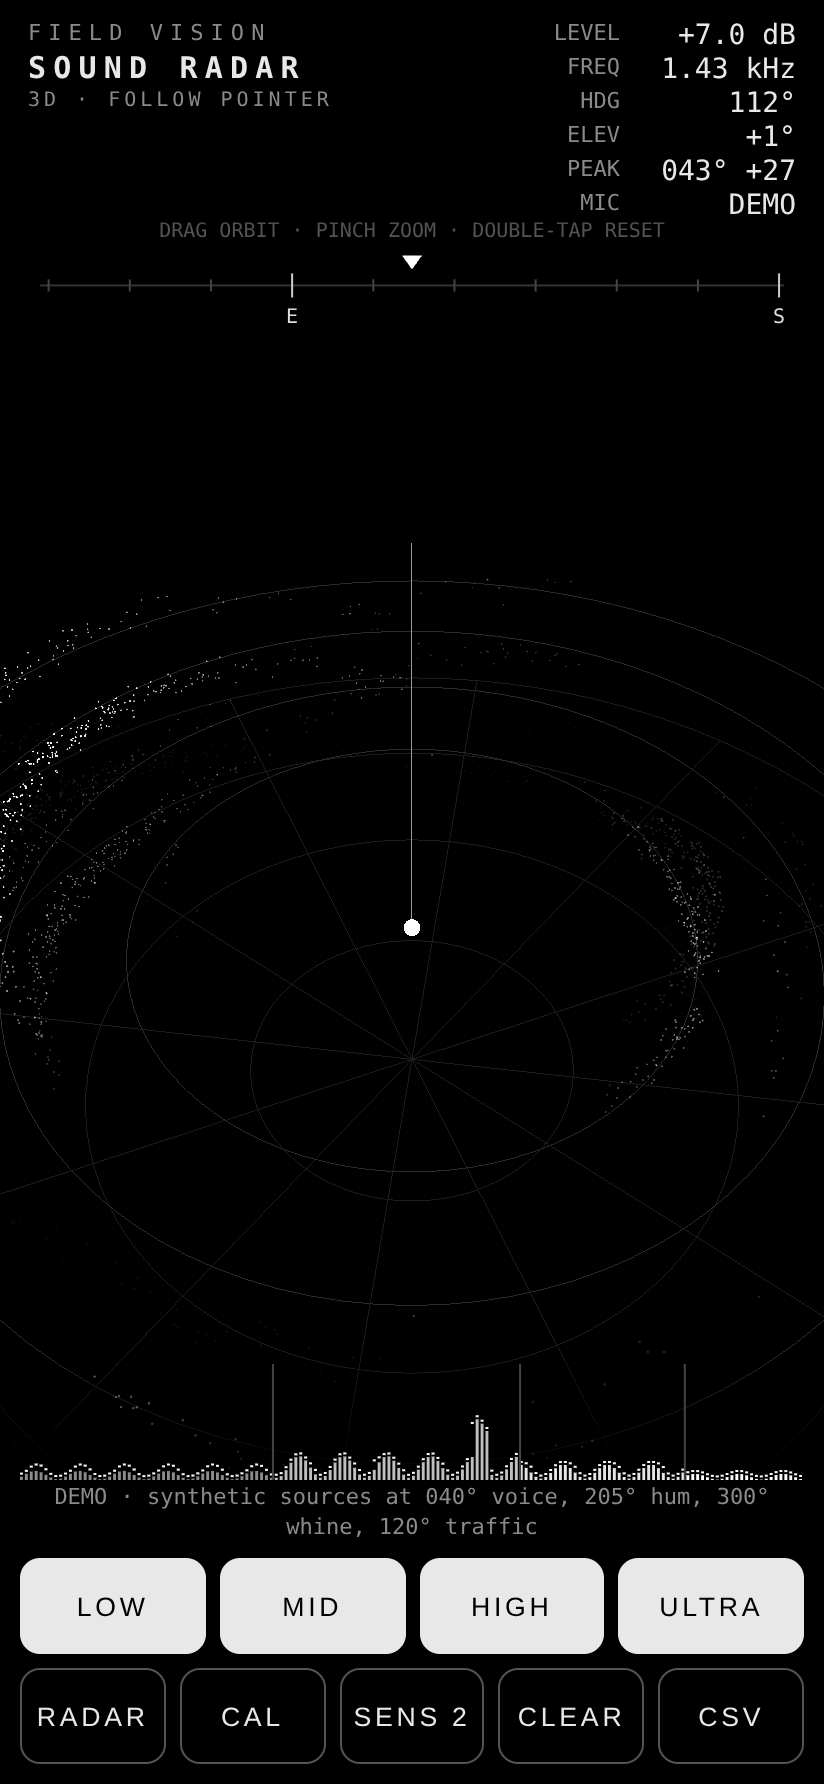
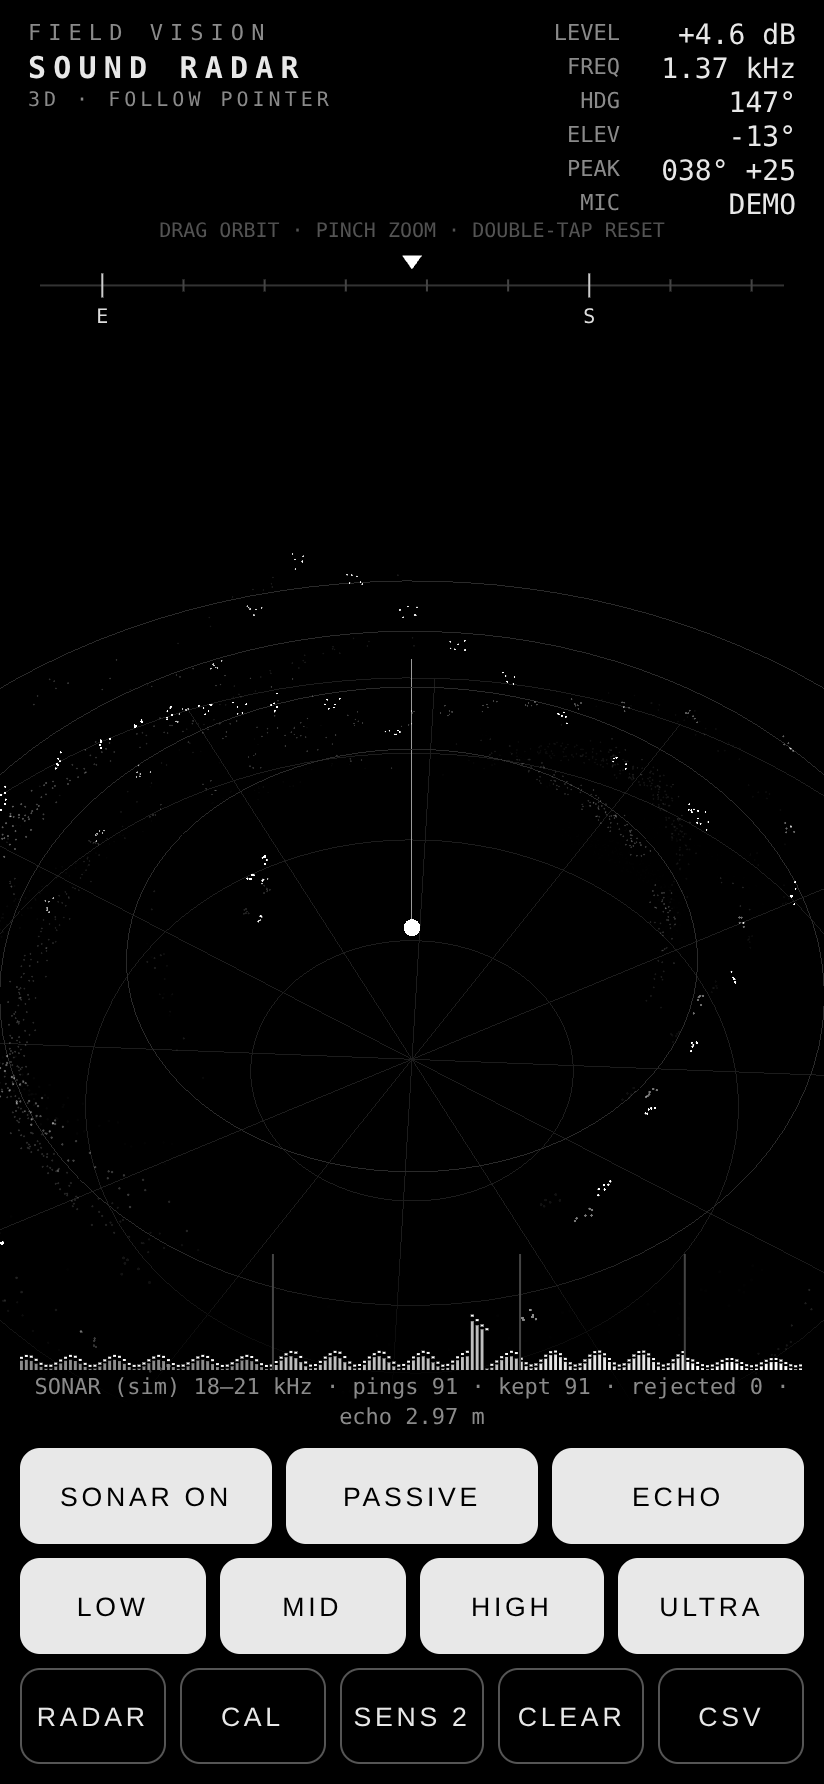
Field Vision v2.1: coded near-ultrasonic sonar layer with interference rejection, passive/echo layers

diff --git a/index.html b/index.html
@@ -52,6 +52,9 @@ button.dim{color:#666;border-color:#2a2a2a}
 <div class="bot">
   <canvas id="spec"></canvas>
   <div id="msg"></div>
+  <div class="row">
+    <button id="sonar">SONAR OFF</button><button id="layP" class="on">PASSIVE</button><button id="layS" class="on">ECHO</button>
+  </div>
   <div class="row" id="bands">
     <button class="on" data-b="0">LOW</button><button class="on" data-b="1">MID</button><button class="on" data-b="2">HIGH</button><button class="on" data-b="3">ULTRA</button>
   </div>
@@ -85,6 +88,70 @@ const bandOn = [true,true,true,true];
 const SENS = [{t:6,k:9},{t:4,k:6},{t:2.5,k:4}]; // threshold dB above floor, dB per particle
 let sensIdx = 1;
 
+// ==SONAR-DSP-BEGIN==
+// Active sonar, near-ultrasonic coded chirps. Pure functions (unit-tested offline).
+const SON = {f0:17500, f1:20500, dur:0.008, maxR:4.0, gMinMs:2.5, gMaxMs:30, N:6, codeRatio:1.5, oobMax:4, interval:0.34, gain:0.22, pre:0.1, post:0.3};
+const SON_CODES = ['UP','DOWN','V'];
+function makeChirp(code, sr){
+  const n=Math.round(SON.dur*sr), out=new Float32Array(n); let ph=0; const B=SON.f1-SON.f0;
+  for(let i=0;i<n;i++){ const u=i/(n-1);
+    const f = code===0 ? SON.f0+B*u : code===1 ? SON.f1-B*u : (u<0.5 ? SON.f0+B*2*u : SON.f1-B*(2*u-1));
+    ph+=2*Math.PI*f/sr; out[i]=Math.sin(ph)*0.5*(1-Math.cos(2*Math.PI*u)); }
+  return out;
+}
+function biquad(type,f,Q,sr){ // RBJ cookbook
+  const w=2*Math.PI*f/sr, c=Math.cos(w), al=Math.sin(w)/(2*Q); let b0,b1,b2;
+  if(type==='lp'){ b0=(1-c)/2; b1=1-c; b2=(1-c)/2; } else { b0=(1+c)/2; b1=-(1+c); b2=(1+c)/2; }
+  const a0=1+al; return [b0/a0,b1/a0,b2/a0,(-2*c)/a0,(1-al)/a0];
+}
+const BW8_Q=[0.5098,0.6013,0.9000,2.5629]; // 8th-order Butterworth sections
+function makeBand(sr){ const hi=Math.min(SON.f1+500, sr/2*0.96), s=[];
+  for(const q of BW8_Q) s.push(biquad('hp',SON.f0-500,q,sr)); for(const q of BW8_Q) s.push(biquad('lp',hi,q,sr)); return s; }
+function makeOob(sr){ const s=[]; for(const q of BW8_Q) s.push(biquad('lp',15000,q,sr)); return s; }
+function filt(x,secs){ let y=Float32Array.from(x);
+  for(const [b0,b1,b2,a1,a2] of secs){ let x1=0,x2=0,y1=0,y2=0; for(let i=0;i<y.length;i++){ const v=y[i], o=b0*v+b1*x1+b2*x2-a1*y1-a2*y2; x2=x1;x1=v;y2=y1;y1=o;y[i]=o; } }
+  return y; }
+function corrAt(x,t,L){ let s=0; for(let k=0;k<t.length;k++) s+=x[L+k]*t[k]; return s; }
+function corrEnv(x,t,a,b){ // |matched filter| envelope for lags a..b-1
+  a=Math.max(0,a); b=Math.min(x.length-t.length,b); const n=Math.max(0,b-a), c=new Float32Array(n), e=new Float32Array(n);
+  for(let i=0;i<n;i++) c[i]=Math.abs(corrAt(x,t,a+i));
+  for(let i=0;i<n;i++){ let m=0; for(let j=Math.max(0,i-3);j<=Math.min(n-1,i+3);j++) if(c[j]>m) m=c[j]; e[i]=m; }
+  return {a,e};
+}
+function energy(x,a,b){ let s=0; a=Math.max(0,a); b=Math.min(x.length,b); for(let i=a;i<b;i++) s+=x[i]*x[i]; return s/Math.max(1,b-a); }
+// raw: mic samples from (emit - pre) to (emit + post). Returns accepted echo peaks or a rejection reason.
+function detectPing(raw, code, tpls, secs, sr){
+  if(!secs.tf){ secs.tf=tpls.map(t=>{ const z=new Float32Array(t.length+64); z.set(t); return filt(z,secs); }); } // templates through the same filter
+  tpls=secs.tf; const x=filt(raw,secs), tpl=tpls[code], emit=Math.round(SON.pre*sr);
+  const ds=corrEnv(x,tpl,emit-Math.round(0.01*sr),emit+Math.round(0.25*sr));
+  let D=0,d=-1; for(let i=0;i<ds.e.length;i++) if(ds.e[i]>D){D=ds.e[i];d=ds.a+i;}
+  const nA=d-Math.round(0.06*sr), nB=d-Math.round(0.01*sr);
+  if(d<0||nA<0) return {ok:false,reason:'no direct path'};
+  const ns=corrEnv(x,tpl,nA,nB); let fl=0; for(const v of ns.e) fl+=v*v; fl=Math.sqrt(fl/Math.max(1,ns.e.length))+1e-9;
+  if(D<10*fl) return {ok:false,reason:'no direct path',D,floor:fl};
+  { let bd=d,bv=0; for(let k=-4;k<=4;k++){ const v=Math.abs(corrAt(x,tpl,d+k)); if(v>bv){bv=v;bd=k+d;} } d=bd; // subtract direct path
+    let te=0; for(const v of tpl) te+=v*v; const a=corrAt(x,tpl,d)/te; for(let k=0;k<tpl.length;k++) x[d+k]-=a*tpl[k]; }
+  const gA=d+Math.round(SON.gMinMs/1000*sr), gB=d+Math.round(SON.gMaxMs/1000*sr);
+  // broadband / impulsive rejection: out-of-band energy jump inside the echo window
+  const oob=filt(raw,secs.oob||(secs.oob=makeOob(sr)));
+  const oobRatio=energy(oob,gA,gB+tpl.length)/(energy(oob,nA,nB)+1e-12);
+  if(oobRatio>SON.oobMax) return {ok:false,reason:'impulse/broadband',oobRatio};
+  const g=corrEnv(x,tpl,gA,gB), thr=Math.max(SON.N*fl, 0.012*D), nms=Math.round(0.0006*sr), peaks=[];
+  for(let i=1;i<g.e.length-1;i++){ const v=g.e[i]; if(v<thr||v<g.e[i-1]||v<g.e[i+1]) continue;
+    const L=g.a+i; if(peaks.length&&L-peaks[peaks.length-1].L<nms){ if(v>peaks[peaks.length-1].v) peaks[peaks.length-1]={L,v}; continue; } peaks.push({L,v}); }
+  const out=[];
+  for(const p of peaks){ // code check: echo must match THIS ping's code, not another sweep
+    let own=0, other=0;
+    for(let k=-3;k<=3;k++) own=Math.max(own,Math.abs(corrAt(x,tpl,p.L+k)));
+    const nb=Math.round(0.0033*sr); for(let k=-nb;k<=nb;k+=1) for(let c=0;c<tpls.length;c++) if(c!==code&&p.L+k>=0) other=Math.max(other,Math.abs(corrAt(x,tpls[c],p.L+k)));
+    if(own<SON.codeRatio*other) continue;
+    out.push({r:(p.L-d)/sr*343/2, snr:p.v/fl});
+  }
+  out.sort((a,b)=>b.snr-a.snr);
+  return {ok:true, peaks:out.slice(0,4), D, floor:fl, oobRatio};
+}
+// ==SONAR-DSP-END==
+
 // ---------- state ----------
 const S = {
   running:false, t0:performance.now(),
@@ -104,10 +171,10 @@ renderer.setPixelRatio(DPR);
 
 const geo = new THREE.BufferGeometry();
 const aData = new Float32Array(CAP*4);   // heading(rad), elev(rad), r2d, r3d
-const aMeta = new Float32Array(CAP*2);   // birth(s), intensity*shade
-for(let i=0;i<CAP;i++) aMeta[i*2] = -1e6;
+const aMeta = new Float32Array(CAP*3);   // birth(s), intensity, layer (0 passive haze, 1 sonar echo)
+for(let i=0;i<CAP;i++) aMeta[i*3] = -1e6;
 const attrData = new THREE.BufferAttribute(aData,4).setUsage(THREE.DynamicDrawUsage);
-const attrMeta = new THREE.BufferAttribute(aMeta,2).setUsage(THREE.DynamicDrawUsage);
+const attrMeta = new THREE.BufferAttribute(aMeta,3).setUsage(THREE.DynamicDrawUsage);
 geo.setAttribute('position', new THREE.BufferAttribute(new Float32Array(CAP*3),3)); // unused, required
 geo.setAttribute('aData', attrData);
 geo.setAttribute('aMeta', attrMeta);
@@ -115,24 +182,24 @@ geo.boundingSphere = new THREE.Sphere(new THREE.Vector3(), 1e5);
 let head = 0, dirtyFrom = -1, dirtyCount = 0;
 
 const common = {
-  uTime:{value:0}, uFade:{value:FADE}, uSize:{value:1.6*DPR}, uHead:{value:0}, uSweep:{value:0}, uScale:{value:1},
+  uTime:{value:0}, uFade:{value:FADE}, uSize:{value:1.6*DPR}, uHead:{value:0}, uSweep:{value:0}, uScale:{value:1}, uShowP:{value:1}, uShowS:{value:1},
 };
 const FRAG = `
 precision highp float;
-varying float vA;
+varying float vA; varying float vL;
 void main(){
   vec2 p = gl_PointCoord*2.0-1.0; float r = dot(p,p);
   if(r>1.0) discard;
-  float core = smoothstep(0.55,0.25,r);       // crisp core
-  float glow = (1.0-r)*0.18;                  // very faint halo
-  float a = (core+glow)*vA;
-  gl_FragColor = vec4(vec3(a),1.0);
+  float a;
+  if(vL>0.5){ a = (smoothstep(0.62,0.3,r) + (1.0-r)*0.08)*vA*1.35; }        // sonar echo: crisp, bright
+  else { a = (smoothstep(0.55,0.2,r)*0.6 + (1.0-r)*0.2)*vA*0.75; }          // passive sound: dimmer haze
+  gl_FragColor = vec4(vec3(min(a,1.0)),1.0);
 }`;
 const VCOMMON = `
-attribute vec4 aData; attribute vec2 aMeta;
-uniform float uTime,uFade,uSize,uHead,uSweep,uScale;
-varying float vA;
-float lifeA(){ float age=uTime-aMeta.x; if(age<0.0||age>uFade) return 0.0; float f=1.0-age/uFade; return f*f*aMeta.y; }
+attribute vec4 aData; attribute vec3 aMeta;
+uniform float uTime,uFade,uSize,uHead,uSweep,uScale,uShowP,uShowS;
+varying float vA; varying float vL;
+float lifeA(){ vL=aMeta.z; if((aMeta.z>0.5?uShowS:uShowP)<0.5) return 0.0; float age=uTime-aMeta.x; if(age<0.0||age>uFade) return 0.0; float f=1.0-age/uFade; return f*f*aMeta.y; }
 `;
 const matRadar = new THREE.ShaderMaterial({
   uniforms:common, transparent:true, depthWrite:false, depthTest:false, blending:THREE.AdditiveBlending,
@@ -145,7 +212,7 @@ const matRadar = new THREE.ShaderMaterial({
     float boost=1.0+1.6*exp(-sw*3.0);
     vA=min(a*boost,1.0);
     gl_Position=projectionMatrix*modelViewMatrix*vec4(p,0.0,1.0);
-    gl_PointSize=uSize*(0.85+0.4*a);
+    gl_PointSize=uSize*(0.85+0.4*a)*(aMeta.z>0.5?1.2:1.0);
   }`, fragmentShader:FRAG });
 const mat3D = new THREE.ShaderMaterial({
   uniforms:common, transparent:true, depthWrite:false, depthTest:false, blending:THREE.AdditiveBlending,
@@ -186,7 +253,7 @@ function spawn(hdgRad, elRad, band, inten){
   const r2 = b.r2[0] + (b.r2[1]-b.r2[0])*(0.15+0.7*t) + (Math.random()-0.5)*0.045;
   const r3 = b.r3[0] + (b.r3[1]-b.r3[0])*(0.15+0.7*t) + (Math.random()-0.5)*0.07;
   aData[i*4]=hdgRad+jh; aData[i*4+1]=elRad+je; aData[i*4+2]=r2; aData[i*4+3]=r3;
-  aMeta[i*2]=S.now; aMeta[i*2+1]=(0.25+0.75*t)*b.shade;
+  aMeta[i*3]=S.now; aMeta[i*3+1]=(0.25+0.75*t)*b.shade; aMeta[i*3+2]=0;
   if(dirtyFrom<0){dirtyFrom=i;dirtyCount=0;} dirtyCount++;
   head=(head+1)%CAP;
 }
@@ -194,11 +261,18 @@ function flushParticles(){
   if(dirtyFrom<0) return;
   attrData.clearUpdateRanges(); attrMeta.clearUpdateRanges();
   const n=Math.min(dirtyCount,CAP), first=Math.min(n,CAP-dirtyFrom);
-  attrData.addUpdateRange(dirtyFrom*4, first*4); attrMeta.addUpdateRange(dirtyFrom*2, first*2);
-  if(n>first){ attrData.addUpdateRange(0,(n-first)*4); attrMeta.addUpdateRange(0,(n-first)*2); }
+  attrData.addUpdateRange(dirtyFrom*4, first*4); attrMeta.addUpdateRange(dirtyFrom*3, first*3);
+  if(n>first){ attrData.addUpdateRange(0,(n-first)*4); attrMeta.addUpdateRange(0,(n-first)*3); }
   attrData.needsUpdate=true; attrMeta.needsUpdate=true; dirtyFrom=-1; dirtyCount=0;
 }
-function clearParticles(){ for(let i=0;i<CAP;i++) aMeta[i*2]=-1e6; attrMeta.clearUpdateRanges(); attrMeta.needsUpdate=true; env.fill(0); S.peakHold.fill(0); }
+function spawnSonar(hdg,el,r,inten){
+  const i=head, rr=r+(Math.random()-0.5)*0.03;
+  aData[i*4]=hdg+(Math.random()-0.5)*0.05; aData[i*4+1]=el+(Math.random()-0.5)*0.05;
+  aData[i*4+2]=rr/SON.maxR*0.98; aData[i*4+3]=rr/SON.maxR*2.85;
+  aMeta[i*3]=S.now; aMeta[i*3+1]=0.55+0.45*inten; aMeta[i*3+2]=1;
+  if(dirtyFrom<0){dirtyFrom=i;dirtyCount=0;} dirtyCount++; head=(head+1)%CAP;
+}
+function clearParticles(){ for(let i=0;i<CAP;i++) aMeta[i*3]=-1e6; attrMeta.clearUpdateRanges(); attrMeta.needsUpdate=true; env.fill(0); S.peakHold.fill(0); }
 
 // ---------- orientation: phone as pointer ----------
 // W3C: world X=east, Y=north, Z=up. Device: x=right, y=top edge, z=out of screen. R = Rz(a)·Rx(b)·Ry(g).
@@ -250,7 +324,7 @@ async function initAudio(){
   if(ac.state==='suspended') await ac.resume();
   const src = ac.createMediaStreamSource(stream);
   an = ac.createAnalyser(); an.fftSize=8192; an.smoothingTimeConstant=0.55; an.minDecibels=-140; an.maxDecibels=0;
-  src.connect(an);                                        // never connected to destination: silent
+  src.connect(an); S.src=src;                             // mic is never routed to the speaker
   const set = stream.getAudioTracks()[0].getSettings?.()||{};
   const ch = set.channelCount || src.channelCount;
   if(ch===2){
@@ -265,6 +339,7 @@ async function initAudio(){
 }
 function setupBins(sr){
   const n = 4096; binHz = sr/8192; freq = new Float32Array(n); binBase=new Float32Array(n).fill(NaN);
+  S.ultraHi = null;
   bandBins = BANDS.map(b=>[Math.max(1,Math.round(b.lo/binHz)), Math.min(n-1,Math.round(Math.min(b.hi,sr/2-200)/binHz))]);
 }
 function startCal(){ cal.active=true; cal.until=S.now+2; cal.acc=new Float64Array(freq.length); cal.n=0; cal.bandAcc=[0,0,0,0]; msg('CALIBRATING · stay quiet for 2 s'); }
@@ -293,8 +368,8 @@ function analyse(){
     S.bandAbove[b]=Math.max(0,S.bandDb[b]-floorDb[b]);
   }
   // dominant frequency (above baseline), parabolic interpolation
-  let best=-1e9, bi=0; const i0=Math.round(30/binHz);
-  for(let i=i0;i<freq.length-1;i++){ const v=freq[i]-(isNaN(binBase[i])?-110:binBase[i]); if(v>best){best=v;bi=i;} }
+  let best=-1e9, bi=0; const i0=Math.round(30/binHz), iMax=son.on?Math.round(16500/binHz):freq.length-1;
+  for(let i=i0;i<iMax;i++){ const v=freq[i]-(isNaN(binBase[i])?-110:binBase[i]); if(v>best){best=v;bi=i;} }
   if(best>6){ const a=freq[bi-1],b=freq[bi],c=freq[bi+1]; const p=0.5*(a-c)/(a-2*b+c||1); S.domHz=(bi+(isFinite(p)?p:0))*binHz; } else S.domHz=0;
   if(S.stereo){
     anL.getFloatTimeDomainData(tdL); anR.getFloatTimeDomainData(tdR);
@@ -354,6 +429,72 @@ function emit(dt){
   if(val>env[ei]) env[ei]=val;
 }
 
+
+// ---------- active sonar runtime (opt-in, near-ultrasonic) ----------
+const son={on:false,ready:false,ring:null,R:0,latest:-1,pend:[],hist:[],nextT:0,lastCode:-1,tpls:null,bufs:null,secs:null,out:null,msgT:0,demoNext:0,
+  st:{sent:0,ok:0,rej:0,echo:0,last:null,why:''}};
+const angDiff=(a,b)=>((a-b+Math.PI*3)%(Math.PI*2))-Math.PI;
+async function sonarInit(){
+  const sr=ac.sampleRate;
+  son.tpls=[0,1,2].map(c=>makeChirp(c,sr)); son.secs=makeBand(sr);
+  son.bufs=son.tpls.map(t=>{ const b=ac.createBuffer(1,t.length,sr); b.copyToChannel(t,0); return b; });
+  son.out=ac.createGain(); son.out.gain.value=SON.gain; son.out.connect(ac.destination);
+  const code="class C extends AudioWorkletProcessor{constructor(){super();this.b=new Float32Array(2048);this.n=0;this.f=0}process(i){const c=i[0]&&i[0][0];if(c){if(this.n===0)this.f=currentFrame;this.b.set(c,this.n);this.n+=c.length;if(this.n>=2048){this.port.postMessage({f:this.f,d:this.b.slice(0,this.n)});this.n=0}}return true}}registerProcessor('fv-cap',C);";
+  await ac.audioWorklet.addModule(URL.createObjectURL(new Blob([code],{type:'application/javascript'})));
+  const node=new AudioWorkletNode(ac,'fv-cap',{numberOfInputs:1,numberOfOutputs:1,channelCount:1,channelCountMode:'explicit'});
+  const mute=ac.createGain(); mute.gain.value=0; S.src.connect(node); node.connect(mute); mute.connect(ac.destination);
+  son.R=Math.round(sr*2); son.ring=new Float32Array(son.R);
+  node.port.onmessage=e=>{ const {f,d}=e.data; for(let i=0;i<d.length;i++) son.ring[(f+i)%son.R]=d[i]; son.latest=f+d.length; };
+  son.ready=true;
+}
+function sonarTick(){
+  if(!son.on||!son.ready) return; const sr=ac.sampleRate;
+  if(ac.currentTime>son.nextT-0.06){
+    if(son.nextT<ac.currentTime+0.02) son.nextT=ac.currentTime+0.05;
+    let code; do code=Math.floor(Math.random()*3); while(code===son.lastCode); son.lastCode=code;   // coded pings
+    const b=ac.createBufferSource(); b.buffer=son.bufs[code]; b.connect(son.out); b.start(son.nextT);
+    son.pend.push({e:Math.round(son.nextT*sr),code,hdg:S.heading,el:S.elev}); son.st.sent++;
+    son.nextT+=SON.interval+Math.random()*0.04;                                               // jittered timing
+  }
+  const n=Math.round((SON.pre+SON.post)*sr);
+  while(son.pend.length && son.latest>=son.pend[0].e+Math.round(SON.post*sr)){
+    const p=son.pend.shift(), a=p.e-Math.round(SON.pre*sr);
+    if(a<0||son.latest-a>son.R) continue;
+    const raw=new Float32Array(n); for(let i=0;i<n;i++) raw[i]=son.ring[(a+i)%son.R];
+    handlePing(p, detectPing(raw,p.code,son.tpls,son.secs,sr));
+  }
+}
+function handlePing(p,r){
+  if(!r.ok){ son.st.rej++; son.st.why=r.reason; son.hist.push({hdg:p.hdg,peaks:[]}); if(son.hist.length>3) son.hist.shift(); return; }
+  son.st.ok++; son.st.why='';
+  const prev=son.hist.slice(-2);
+  for(const pk of r.peaks){   // plot only if the same range shows up in >=2 of the last 3 pings at ~the same heading
+    let votes=0; for(const h of prev){ if(Math.abs(angDiff(h.hdg,p.hdg))>12*D2R) continue; if(h.peaks.some(q=>Math.abs(q.r-pk.r)<0.1)) votes++; }
+    if(votes>=1 && pk.r<=SON.maxR){ const inten=Math.min(1,Math.log10(pk.snr)/3); for(let k=0;k<6;k++) spawnSonar(p.hdg,p.el,pk.r,inten); son.st.echo++; son.st.last=pk.r; }
+  }
+  son.hist.push({hdg:p.hdg,peaks:r.peaks}); if(son.hist.length>3) son.hist.shift();
+}
+function demoSonar(){   // simulated room 4.0 x 4.9 m with a pillar at 075° / 1.2 m
+  if(S.now<son.demoNext) return; son.demoNext=S.now+SON.interval;
+  const h=S.heading, dx=Math.sin(h), dy=Math.cos(h); const hits=[];
+  const tw=[]; if(dx>0) tw.push(2.3/dx); if(dx<0) tw.push(-1.7/dx); if(dy>0) tw.push(2.8/dy); if(dy<0) tw.push(-2.1/dy); hits.push(Math.min(...tw));
+  const ox=1.2*Math.sin(75*D2R), oy=1.2*Math.cos(75*D2R), b=dx*ox+dy*oy, c=ox*ox+oy*oy-0.25*0.25, disc=b*b-c; if(disc>0) hits.push(b-Math.sqrt(disc));
+  son.st.sent++; son.st.ok++;
+  for(const r of hits){ if(r>0.3&&r<=SON.maxR){ for(let k=0;k<6;k++) spawnSonar(h,S.elev,r,0.8); son.st.echo++; son.st.last=r; } }
+}
+$('sonar').onclick=async()=>{
+  if(!DEMO){
+    if(!ac){ msg('Tap START first'); return; }
+    if(!son.ready){ try{ await sonarInit(); }catch(e){ msg('Sonar unavailable on this browser: '+(e.message||e)); return; } }
+  }
+  son.on=!son.on; son.nextT=0; son.pend.length=0; son.hist.length=0;
+  if(bandBins.length){ if(S.ultraHi==null) S.ultraHi=bandBins[3][1]; bandBins[3][1]=son.on?Math.round(16500/binHz):S.ultraHi; } // keep chirps out of the passive layer
+  $('sonar').textContent=son.on?'SONAR ON':'SONAR OFF'; $('sonar').className=son.on?'on':'';
+  if(!son.on) msg('Sonar off. Passive listening only, no sound output.');
+};
+$('layP').onclick=()=>{ common.uShowP.value=common.uShowP.value?0:1; $('layP').className=common.uShowP.value?'on':'dim'; };
+$('layS').onclick=()=>{ common.uShowS.value=common.uShowS.value?0:1; $('layS').className=common.uShowS.value?'on':'dim'; };
+
 // ---------- CSV log ----------
 const log=[]; let lastLog=0;
 function logRow(){
@@ -376,7 +517,7 @@ function resize(){
   W=innerWidth; H=innerHeight; renderer.setSize(W,H,false);
   hud.width=W*DPR; hud.height=H*DPR; hx.setTransform(DPR,0,0,DPR,0,0);
   spec.width=spec.clientWidth*DPR; spec.height=spec.clientHeight*DPR;
-  cx=W/2; cy=H*0.47; RP=Math.min(W*0.46, H*0.33);
+  cx=W/2; cy=H*0.43; RP=Math.min(W*0.40, H*0.29);
   // ortho camera matching the HUD radar: 1 unit = RP px, centred at (cx,cy)
   camR.left=-cx/RP; camR.right=(W-cx)/RP; camR.top=cy/RP; camR.bottom=-(H-cy)/RP; camR.updateProjectionMatrix();
   cam3.aspect=W/H; cam3.updateProjectionMatrix();
@@ -413,7 +554,7 @@ function drawRadarHud(){
   g.fillStyle='#fff'; g.beginPath(); g.moveTo(cx,cy-RP*1.03+1); g.lineTo(cx-7,cy-RP*1.03-11); g.lineTo(cx+7,cy-RP*1.03-11); g.closePath(); g.fill();
   // rotating sweep (screen space) with trailing gradient
   const sa=S.sweep-Hd; // world sweep angle -> screen
-  for(let i=0;i<24;i++){ const a=sa-i*0.025; g.strokeStyle=`rgba(255,255,255,${0.22*(1-i/24)})`;
+  for(let i=0;i<10;i++){ const a=sa-i*0.05; g.strokeStyle=`rgba(255,255,255,${0.24*(1-i/10)})`;
     g.beginPath(); g.moveTo(cx,cy); g.lineTo(cx+Math.sin(a)*RP,cy-Math.cos(a)*RP); g.stroke(); }
   // directional envelope (peak hold per 5°) outside the rim
   g.strokeStyle='rgba(255,255,255,0.75)'; g.lineWidth=2;
@@ -425,6 +566,9 @@ function drawRadarHud(){
   if(pi>=0&&pk>3){ const a=(pi*5+2.5)*D2R-Hd, r=RP*0.985; const px=cx+Math.sin(a)*r, py=cy-Math.cos(a)*r;
     g.strokeStyle='#fff'; g.beginPath(); g.arc(px,py,6,0,7); g.stroke(); g.beginPath(); g.arc(px,py,10,0,7); g.globalAlpha=0.35; g.stroke(); g.globalAlpha=1;
     S.peakTxt=`${String(Math.round(pi*5+2.5)).padStart(3,'0')}° +${pk.toFixed(0)}`; } else S.peakTxt='---';
+  if(son.on){ g.setLineDash([2,5]); g.strokeStyle='#3a3a3a'; g.fillStyle='#6a6a6a'; g.font='9px ui-monospace,monospace';
+    for(let m=1;m<=SON.maxR;m++){ const r=m/SON.maxR*0.98*RP; g.beginPath(); g.arc(cx,cy,r,0,7); g.stroke(); g.fillText(m+'m',cx+r*0.72+8,cy+r*0.72); }
+    g.setLineDash([]); }
   // Peter
   g.fillStyle='#fff'; g.beginPath(); g.arc(cx,cy,4.5,0,7); g.fill();
   g.strokeStyle='rgba(255,255,255,0.35)'; g.beginPath(); g.arc(cx,cy,9+4*Math.sin(S.now*4),0,7); g.stroke();
@@ -514,6 +658,8 @@ function frame(now){
   if(S.running){
     if(DEMO) demoMotion();
     analyse(); emit(dt); logRow();
+    if(DEMO){ if(son.on) demoSonar(); } else sonarTick();
+    if(son.on && now-son.msgT>500){ son.msgT=now; const st=son.st; msg(`SONAR ${DEMO?'(sim) ':''}18–21 kHz · pings ${st.sent} · kept ${st.ok} · rejected ${st.rej}${st.why?' ('+st.why+')':''} · echo ${st.last?st.last.toFixed(2)+' m':'--'}`); }
   }
   S.sweep=(S.sweep+dt*2.1)%(Math.PI*2);
   flushParticles();
@@ -532,12 +678,14 @@ function frame(now){
   else if(DEMO) $('rSt').textContent='DEMO';
   if(S.debug) S.debug.fps=fps;
 }
-window.__fv={S,get fps(){return fps}, get alive(){ let n=0; for(let i=0;i<CAP;i++) if(S.now-aMeta[i*2]<FADE) n++; return n; }};
+window.__fv={S,get fps(){return fps}, get alive(){ let n=0; for(let i=0;i<CAP;i++) if(S.now-aMeta[i*3]<FADE) n++; return n; }};
 resize();
 if(DEMO){
   // pre-fill ~25 s of sweeping so the map is populated immediately
   S.running=true; $('overlay').classList.add('hide'); msg('DEMO · synthetic sources at 040° voice, 205° hum, 300° whine, 120° traffic');
-  const save=S.t0; for(let k=0;k<25*30;k++){ S.now=k/30; demoMotion(); analyse(); emit(1/30); }
+  const save=S.t0; son.on=true; $('sonar').textContent='SONAR ON'; $('sonar').className='on';
+  for(let k=0;k<25*30;k++){ S.now=k/30; demoMotion(); analyse(); emit(1/30); demoSonar(); }
+  son.demoNext=0;
   S.t0=performance.now()-25000; flushParticles(); head=head; dirtyFrom=0; dirtyCount=CAP; flushParticles();
 }
 requestAnimationFrame(frame);
